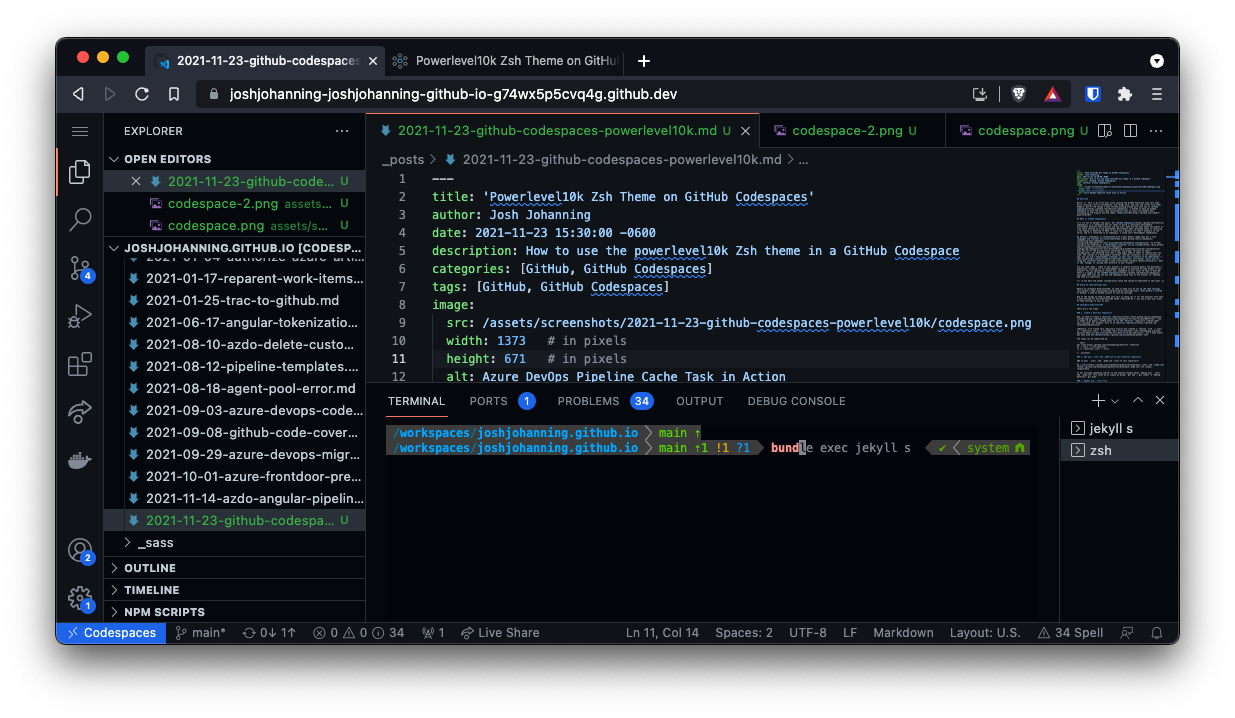
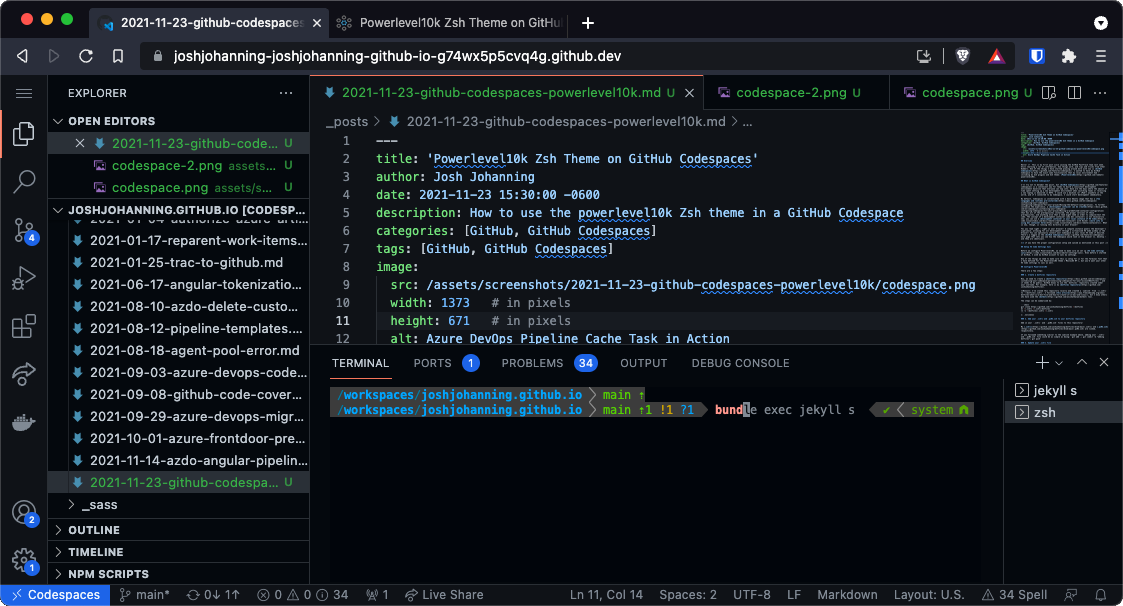
trimming out wasted space in codespace screenshot

diff --git a/_posts/2021-11-23-github-codespaces-powerlevel10k.md b/_posts/2021-11-23-github-codespaces-powerlevel10k.md
@@ -7,8 +7,8 @@ categories: [GitHub, Codespaces]
 tags: [GitHub, GitHub Codespaces]
 image:
   src: /assets/screenshots/2021-11-23-github-codespaces-powerlevel10k/codespace.png
-  width: 1235   # in pixels
-  height: 718   # in pixels
+  width: 1123   # in pixels
+  height: 606   # in pixels
   alt: A GitHub Codespace with the Powerlevel10k Zsh theme
 ---
 
